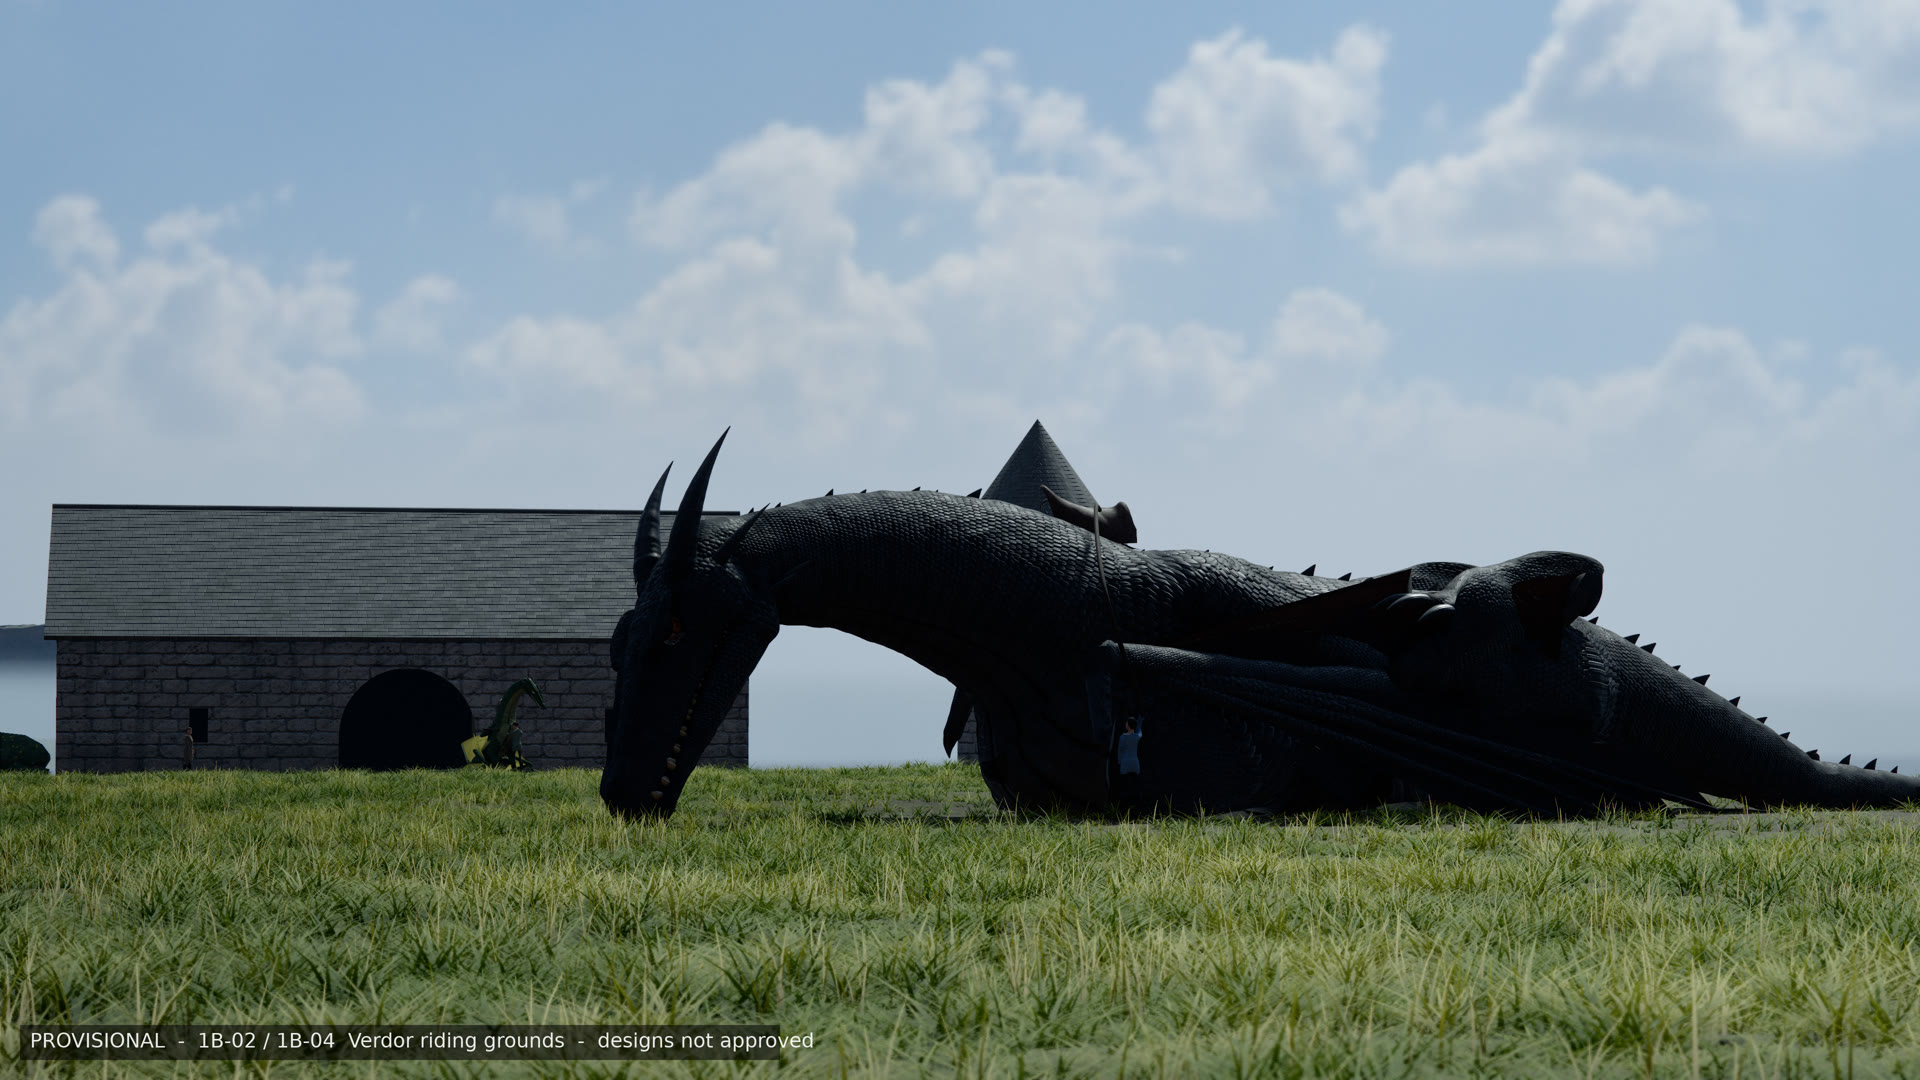
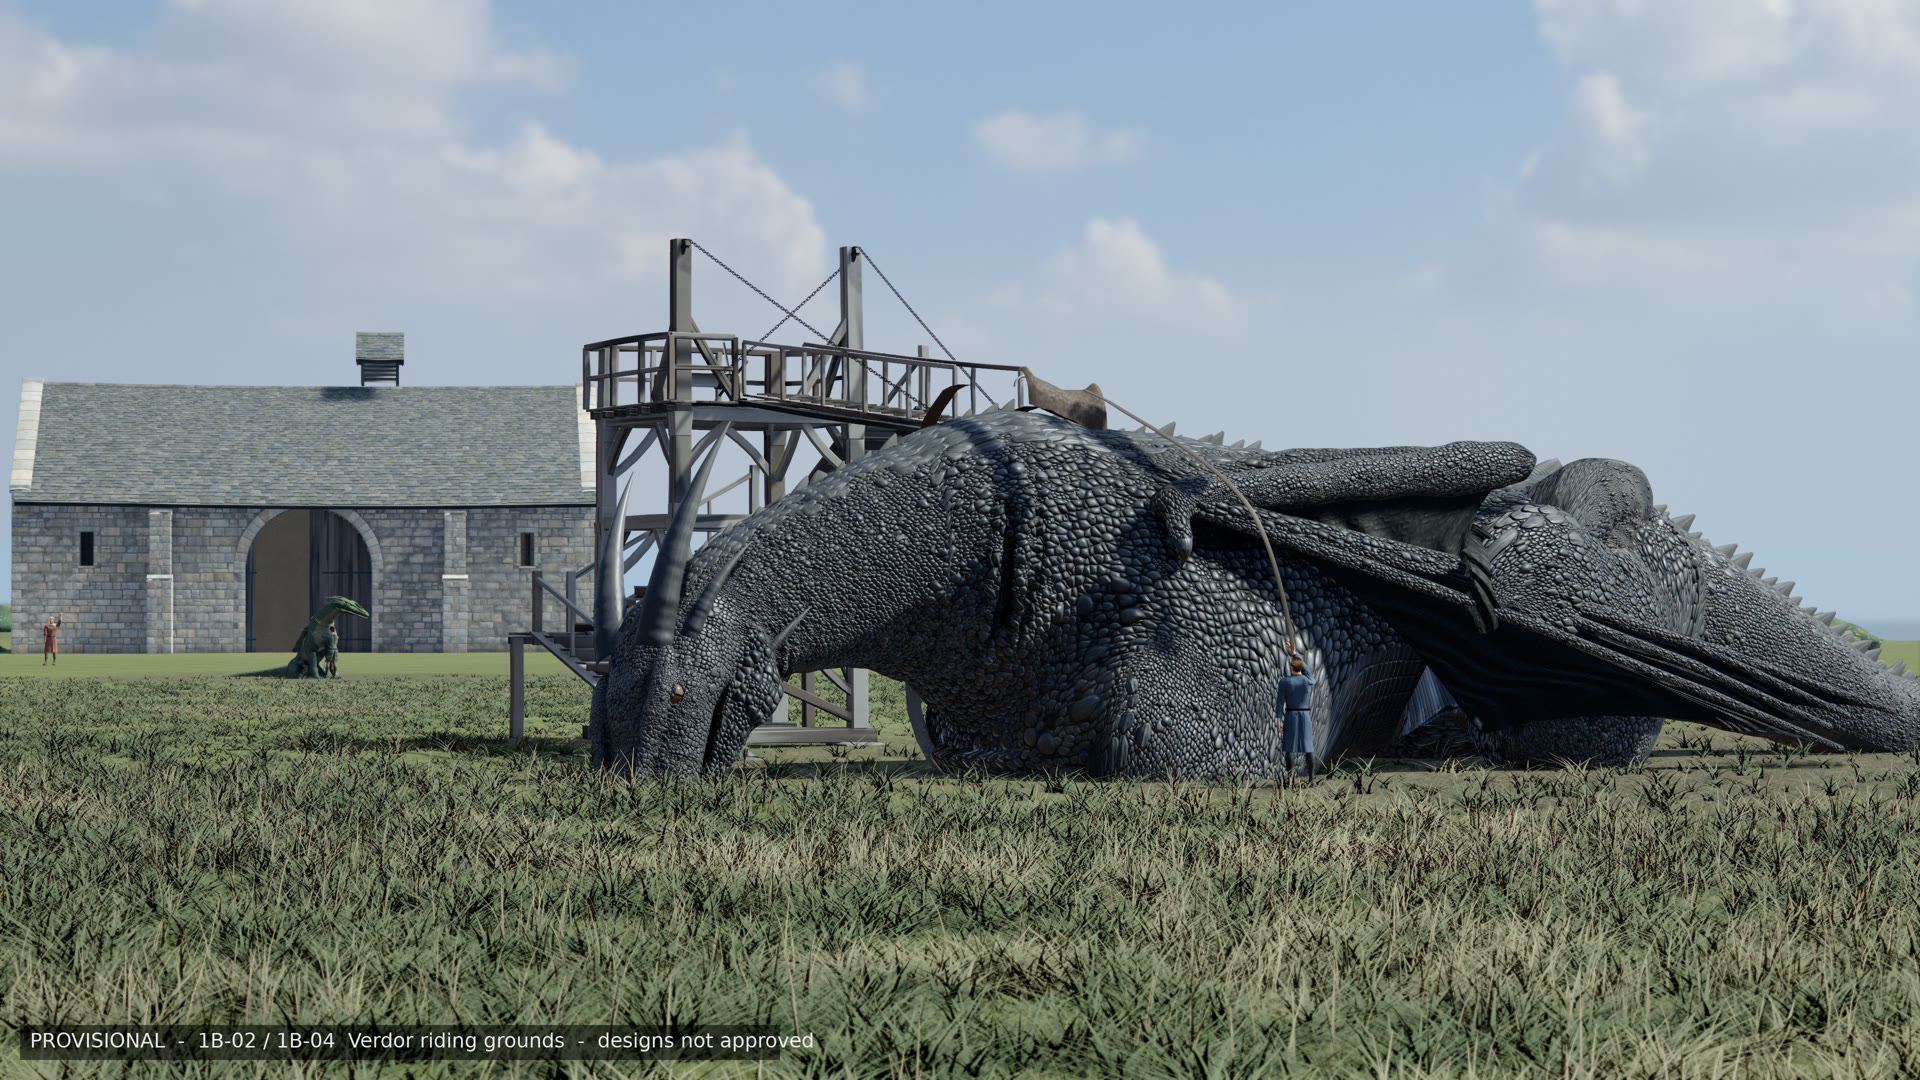
Style frames F1-F5 re-rendered at native 4K with the new models (creatures, humans cast builds, architecture sets): PROVISIONAL previews, sets contact sheet, measurements and open issues in PROGRESS, npm test 33/33
Claude-Session: https://claude.ai/code/session_01Jk9nJxHRmbfj3XjX5HnS7k

diff --git a/dragons-kingdom/scenes/lib/sets/PROGRESS.md b/dragons-kingdom/scenes/lib/sets/PROGRESS.md
@@ -45,6 +45,45 @@ Done so far
 - `style-contact.js`: contact sheet of the sets library's own models.
 - make.sh: 4K PNGs + logs to output/lookdev/style-frames/, previews into episodes/.../style-frames/.
 
-Next
-- Final 4K renders running (see the measurements section when filled), review 1920 + 1:1 crops,
-  fix, re-render, previews, npm test.
+- After the first 4K pass (all five reviewed at 1920 + 1:1 crops): F2 +0.25 stop and a dark
+  stable interior; F3 less aerial haze, contrast 1.2 and a display lift of -0.07 (blacks were 15%);
+  F4 the cloth is DRAPED every frame over one smooth pad per hand (drapeCloth: a heightfield over
+  the bed + hand pads, relaxed), wrists/thumbs show at its edge, T5.6, no fluid strings (they read
+  as white strings); F5 only calm crowd builds (cheer/call/gesture builds raise an arm and stole the
+  watchman's point), watchman moved into the sun at the left foreground, Starlight farther (z -235)
+  and lower over the hills, volumetric haze 0.0006.
+
+## Measurements (native 4K, --preset final, 8-sub-frame film finish, one --still each, machine
+## shared with other agents, load average 3-7)
+
+| frame | render (s) | total (s) | notes |
+|---|---:|---:|---|
+| F1 prologue | 47.8 | 67.9 | FFT ocean, fog banks, the knarr, 3 cast-build crew (too small to read at 120 m) (pass 1, old crew: 43.5 / 61.6) |
+| F2 riding grounds | 360.8 | 436.5 | Charcoal + Leaf hero meshes, 3 cast builds, stable/lodge/rig, 77k grass tufts (pass 1: 369.5 / 448.3) |
+| F3 flight | 103.0 | 147.3 | two creatures (standard), riders, ocean (pass 1: 103.2 / 148.2) |
+| F4 birthing chamber | 302.0 | 363.2 | hatchling hero, chamber + baked linen, Alexandria (hero cast), 96-tap DOF, dust volumetrics (pass 1: 428.2 / 490.3) |
+| F5 Cling square | 544.7 | 609.7 | Cling square ~23 M tris, Starlight hero + rider, ~40 cast builds, 5 stalls, hedgerows (pass 1: 695.3 / 762.7) |
+| sets contact sheet (6 shots, --fps 1) | | 188 | style-contact.js, 4 sub-frames |
+
+Outputs: output/lookdev/style-frames/*.png (4K, + _PROVISIONAL), review/ (1920 + 1:1 crops),
+output/lookdev/style-contact/ (contact sheet). Previews: episodes/s01e01/style-frames/*_preview.jpg.
+
+## Open issues (seen in the finals)
+- F4: the cloth is a heightfield drape (not a cloth sim): it reads as a folded linen cloth over her
+  hands, but its edges are clean cut and it lies over the hatchling's back rather than wrapping it.
+- F4: the "cool daylight shaft" reads as cool light on the bedding behind the hatchling and a cool
+  haze; it is not a crisp visible beam at this angle.
+- F5: the farmland is smooth rolling hills with blob trees (scatter clumps) - CG at 1:1; people read
+  as small mannequin-like figures from 45 m; musicians are too small to identify their instruments.
+- F2: the stable door interior is still a flat dim brown; Charcoal's scales read as uniform beads
+  (creature domain); the rig's posts-and-chains silhouette (architecture domain).
+- F3: membranes in motion read as flat grey sheets; the shallows are a strong turquoise.
+- F1: the crew are too small to read; the ship hull is plain.
+
+npm test: 33/33 pass (174 s) after the final renders.
+
+Next (for a successor)
+- F4: a real bpy cloth bake of the folded linen over Alexandria's hands (her hand pose is fixed per
+  frame, so one bake per shot) instead of the heightfield drape.
+- F5: closer second angle (3B-07: watchman, captain, king at medium size) so the cast faces read.
+- Replace the scatter-blob trees with the nature domain's trees when it delivers them.
